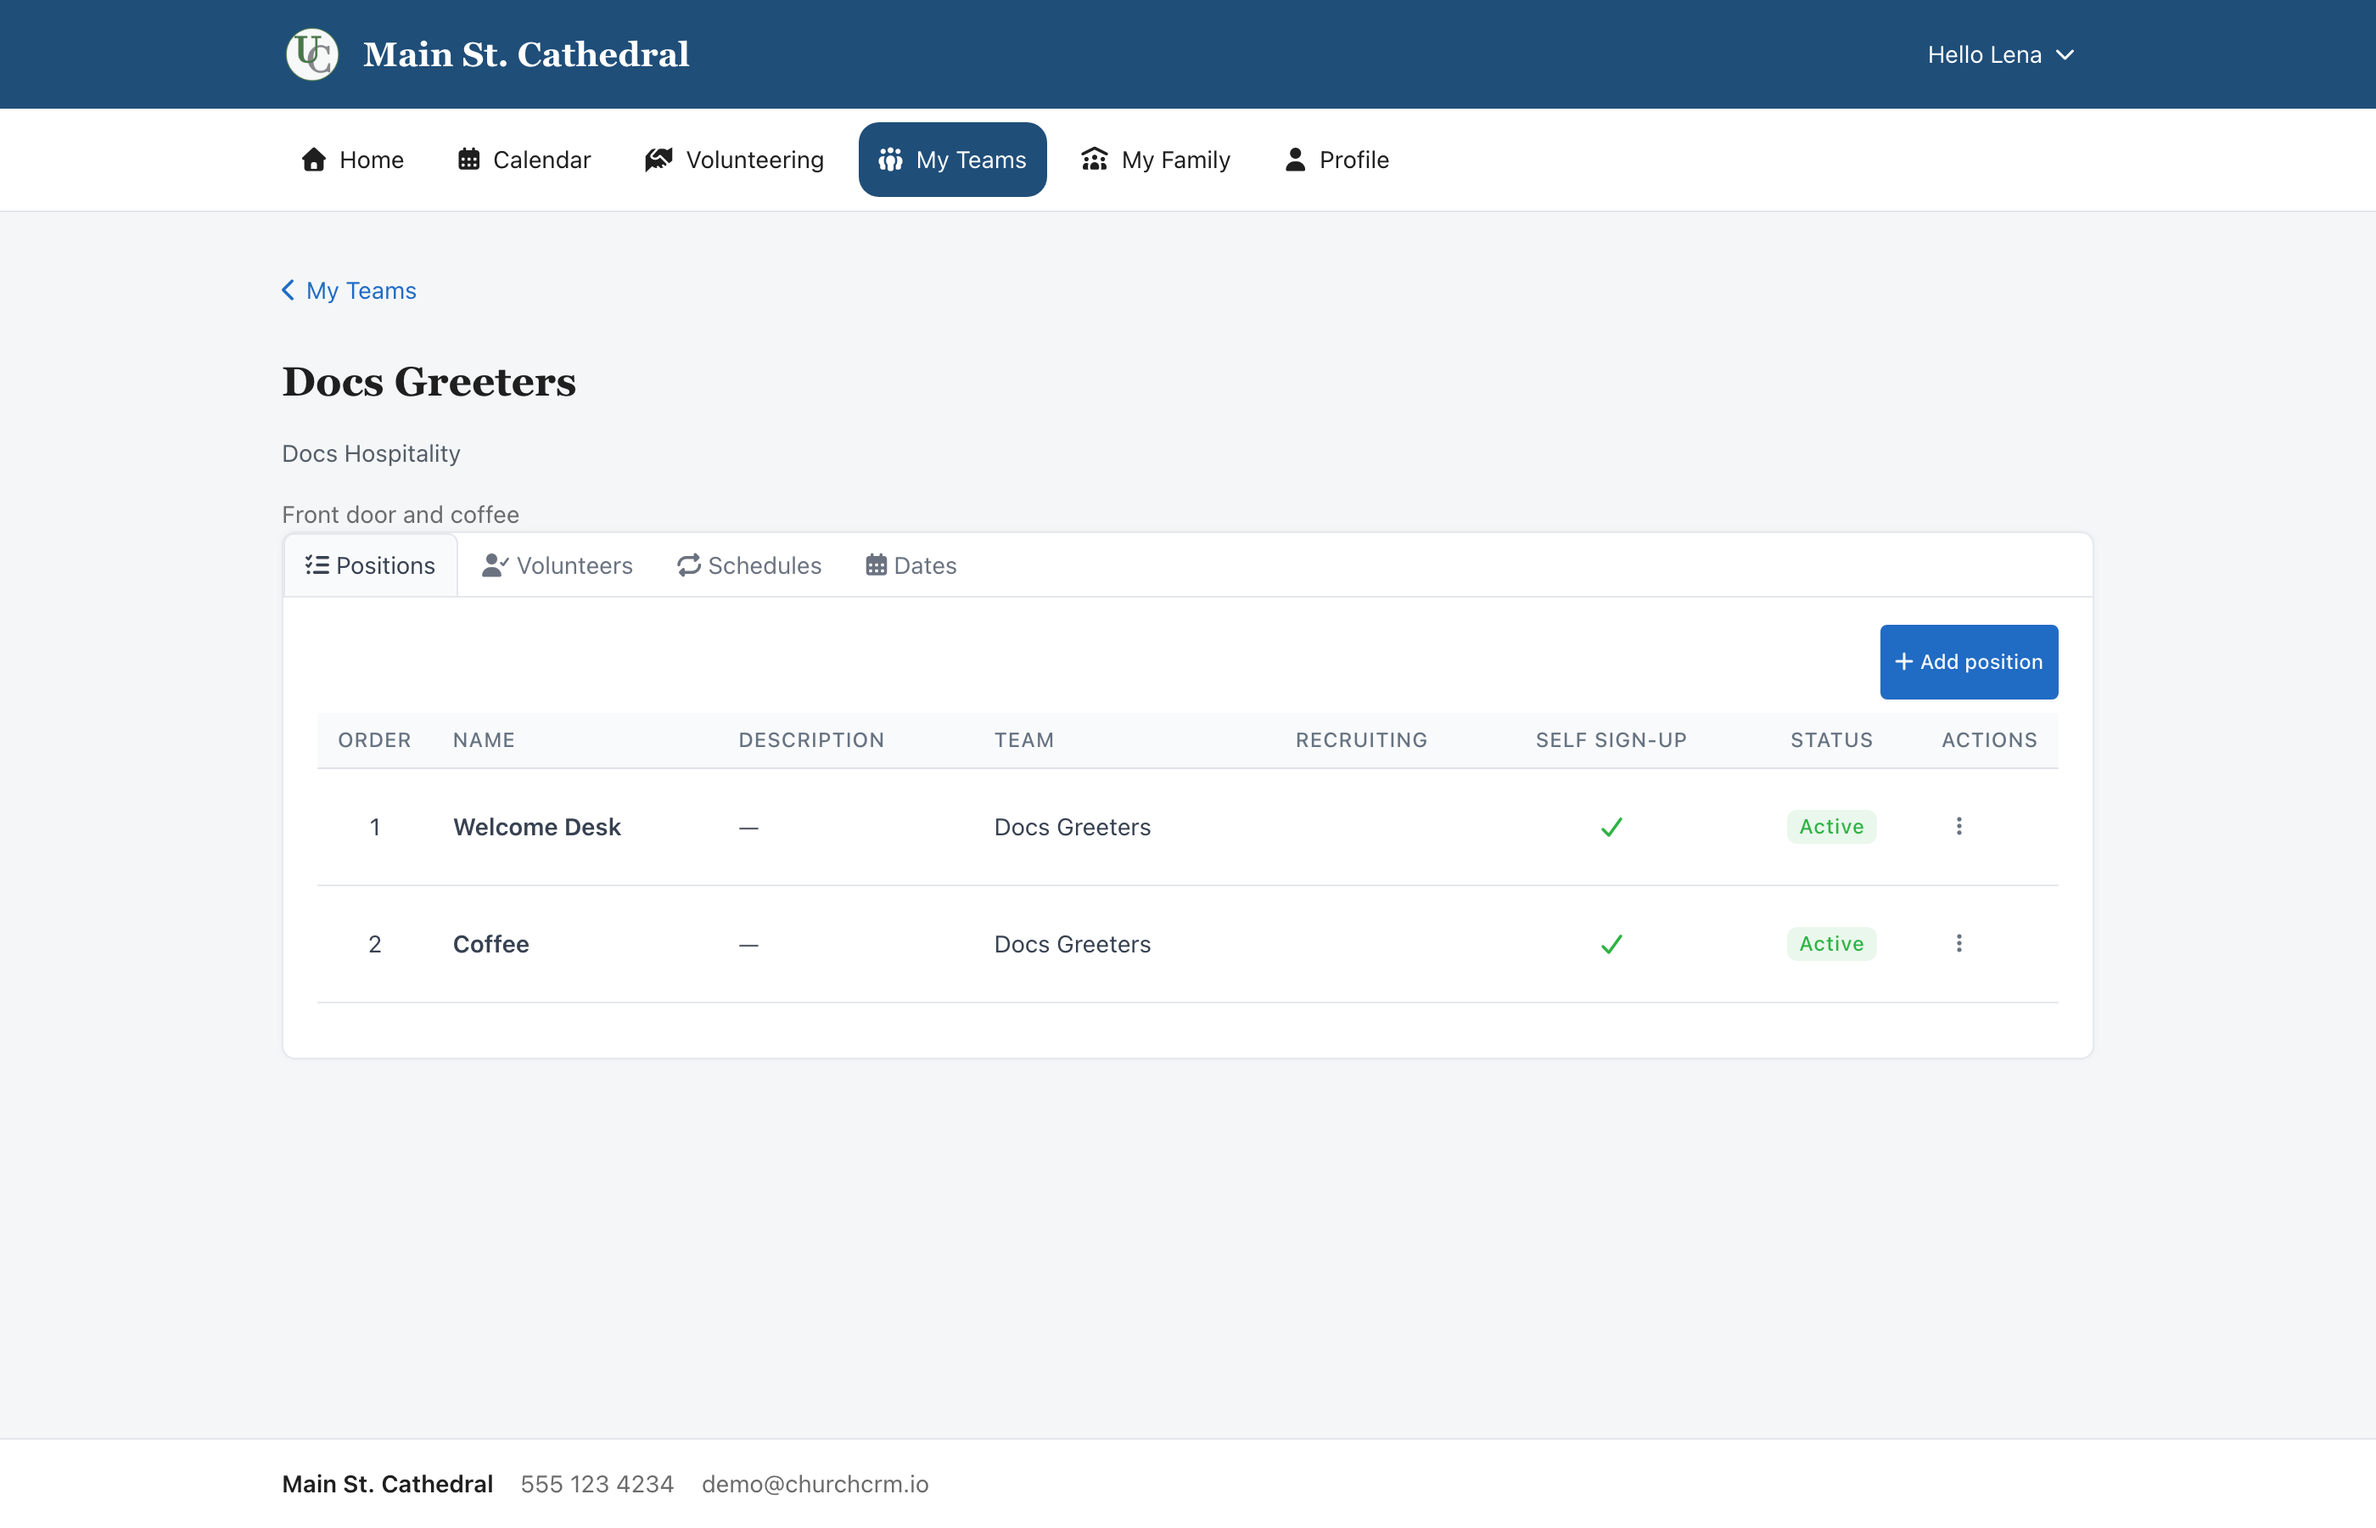
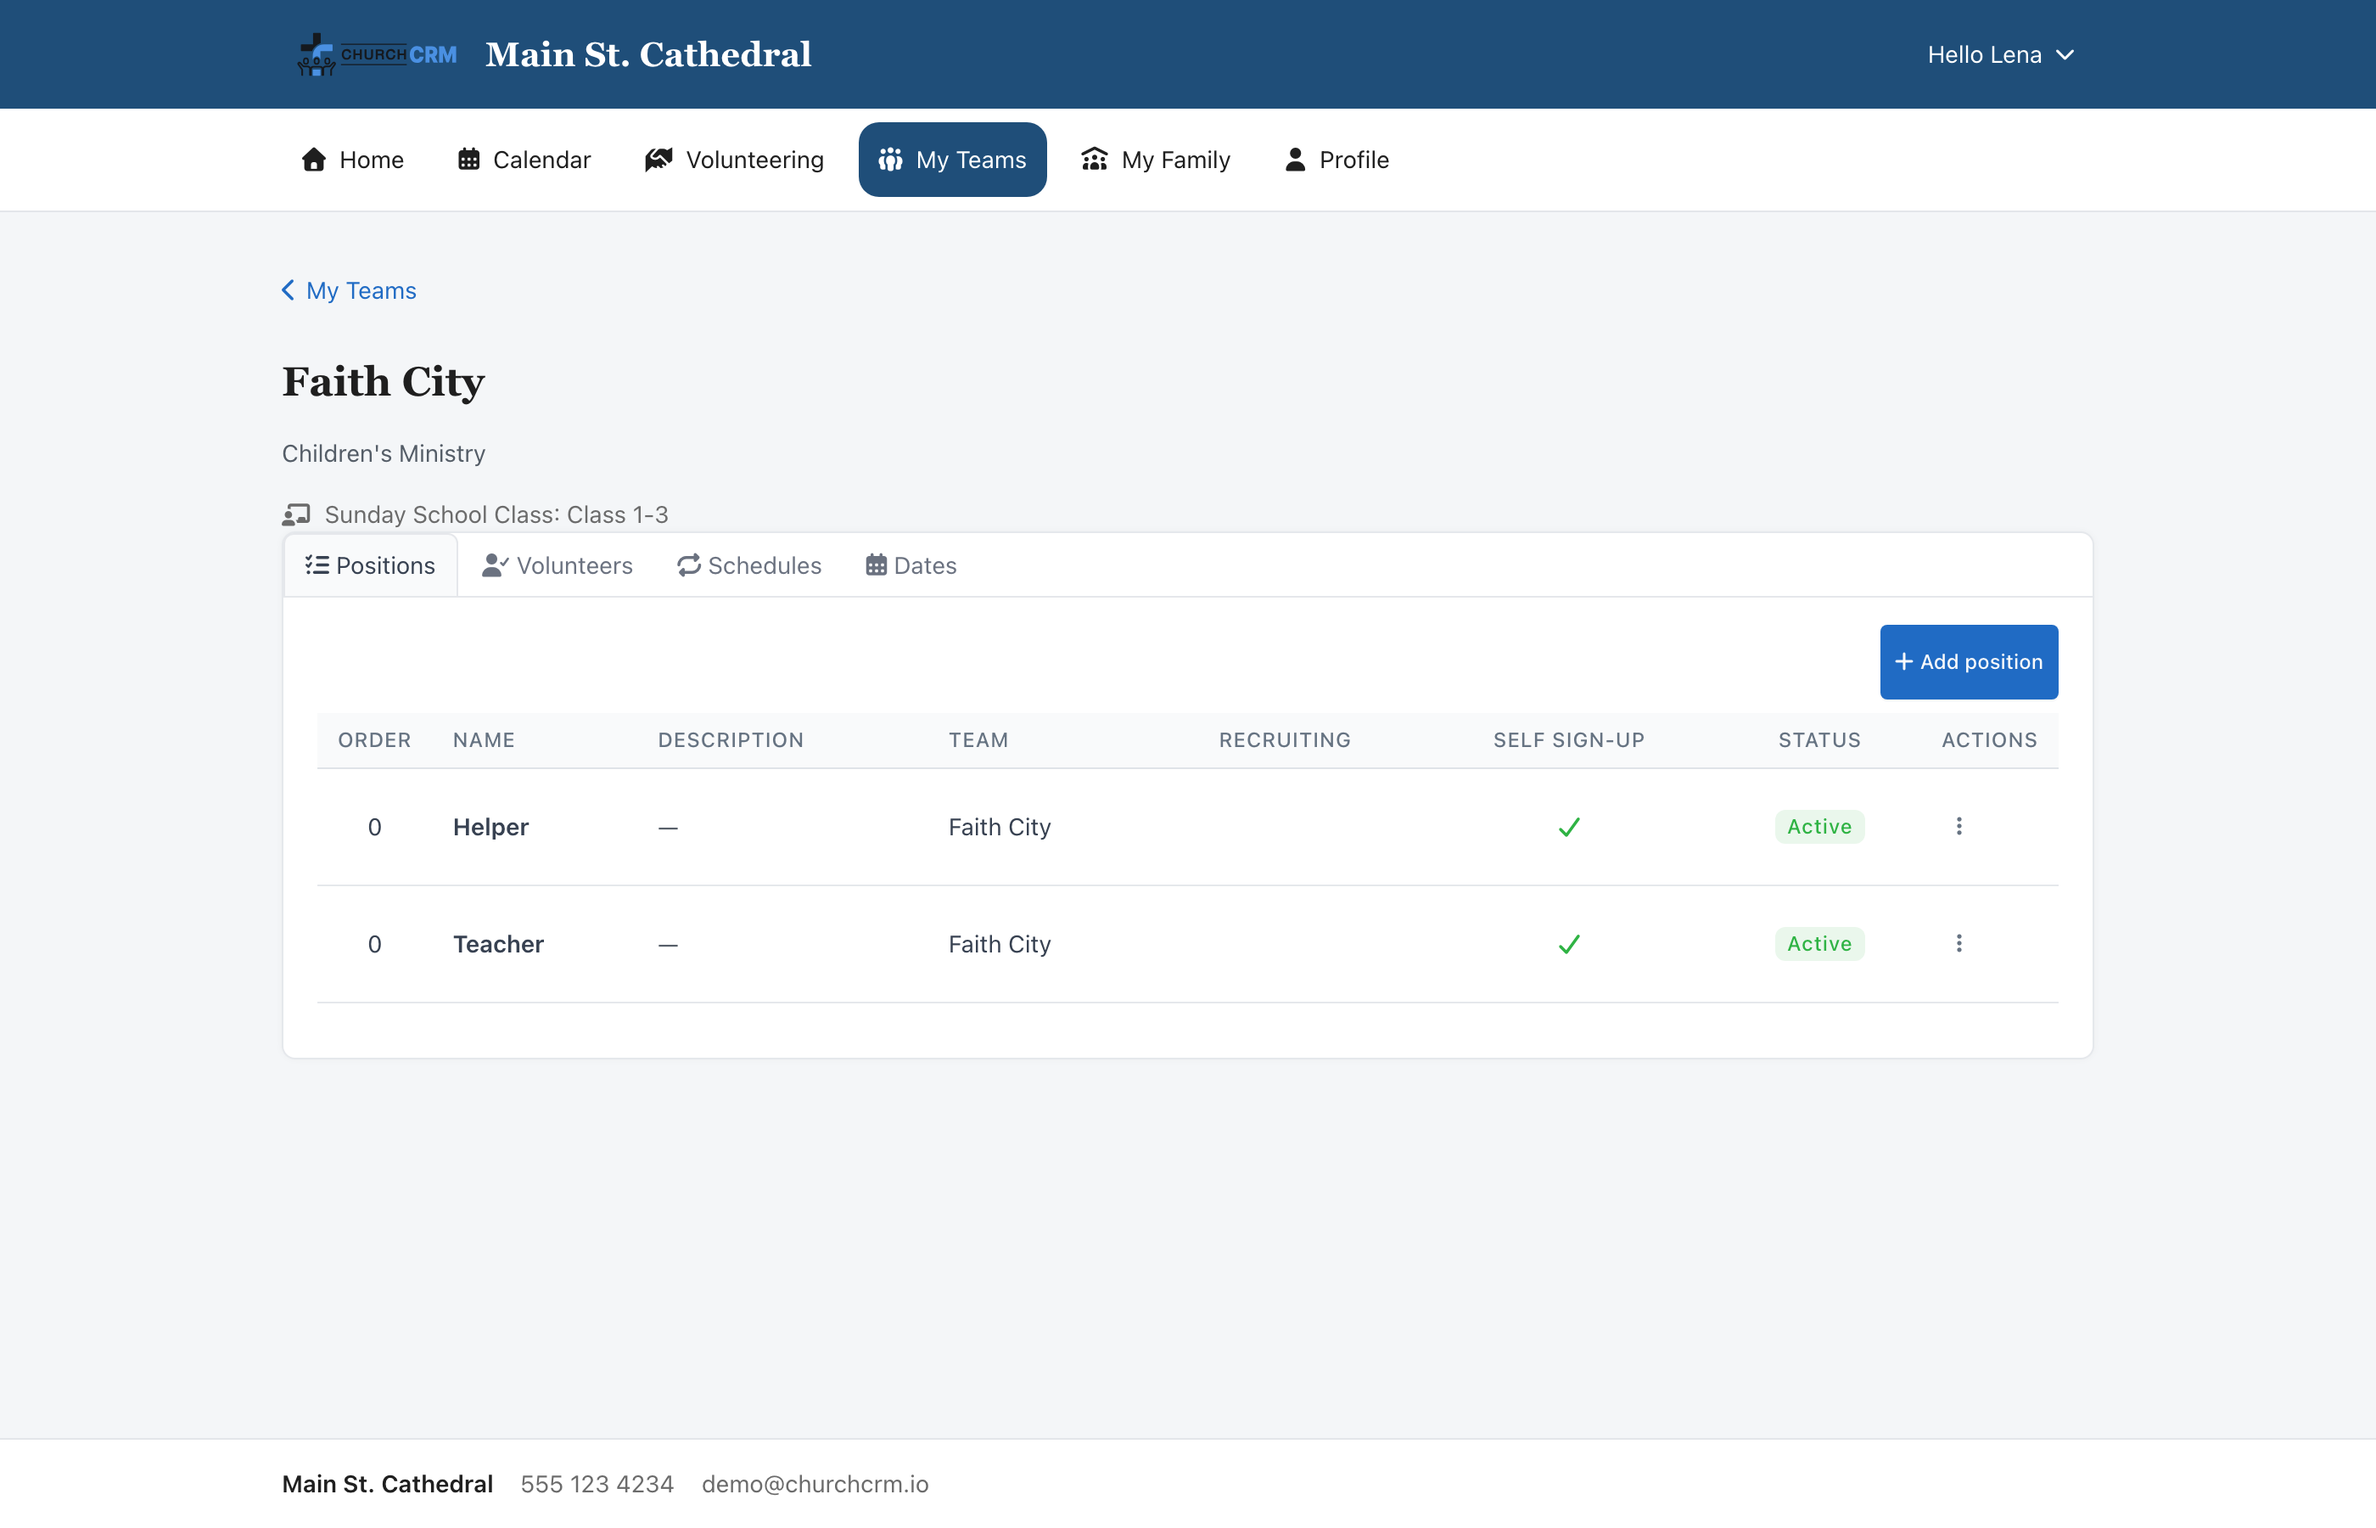
docs(member-portal): calendar switches, schedules that follow events, masquerade exit
- Calendar: the legend's calendars are switches that hide and show their
  events, remembered per browser; the admin Calendars tab says so too.
- My Teams: schedules follow existing calendar events (church events of a
  type, a class's meetings, or the ministry's own events) with volunteer
  time offsets, and a new schedule makes its dates on Save up to the
  church's scheduling horizon, topped up daily. New "Add a schedule"
  section and dialog screenshot; Positions mentions Self-assignable.
- Login as User: the portal's Hello menu shows "Exit to your account" in
  place of "Sign out" during a masquerade (user guide and admin page).
- Retake the calendar, My Teams ("Next on Oct 4", locale dates) and team
  Positions screenshots.

diff --git a/docs/user-guide/member-portal.md b/docs/user-guide/member-portal.md
@@ -30,6 +30,8 @@ On a phone the navigation folds behind the menu button in the header; every page
 
 The **Hello *\<your name\>*** menu in the header holds **Email History** (what the church has emailed you), **Change Password** and **Sign out**. Staff who also have an office login see **Admin Console** there as their way back.
 
+When an administrator opens the portal as you with [Login as User](../administration/users.md), the menu shows **Exit to your account** in place of **Sign out**: it ends the visit and takes the administrator back to their own account, on your user record.
+
 ---
 
 ## Home
@@ -91,11 +93,21 @@ Churches periodically ask households to check what is on file. **Confirm your fa
 
 **Calendar** shows the church calendars an administrator has chosen to share with members. The calendars are listed above the grid with their colours; **Month**, **Week** and **List** views are available, and on a phone the calendar opens in list view. Click an event to see **When**, **Where** and **Details**. The calendar is read-only: nothing here can change an event.
 
-![The portal calendar](/img/user-guide/member-portal-calendar.png)
+![The portal calendar, with the Bible Classes calendar switched off in the legend](/img/user-guide/member-portal-calendar.png)
 
 If your church shares its birthday or anniversary calendar, entries show a first name and last initial (*"Albert C."*) and never an age or a full surname.
 
 The ministry calendar of a team you lead is marked **You lead this**.
+
+### Show or hide a calendar
+
+Each calendar in the legend above the grid is a switch — *"Select a calendar to hide or show its events."*
+
+- Select a calendar to hide its events. Its name is struck through and its colour dot turns hollow.
+- Select it again to show its events.
+- Your browser remembers which calendars you switched off, so the calendar opens the same way next time on that device. Another browser or device starts with every calendar shown.
+
+This helps when the church shares several calendars — for example a calendar of Bible classes next to the main church calendar — and you only want to see some of them. The switches change only what this page shows: they do not change what the church shares or what your [calendar subscription](#subscribe-in-your-own-calendar-app) contains.
 
 ### Subscribe in your own calendar app
 
@@ -152,22 +164,51 @@ With nothing open the page says *"Nothing open right now"* and *"We will email y
 
 ## My Teams
 
-**My Teams** appears only for a member who leads a volunteer team. It lists the teams you look after — *"Open one to set up its positions, say who can serve where, and fill the weeks ahead."* — with each team's ministry, its number of positions and its next scheduled date.
+**My Teams** appears only for a member who leads a volunteer team. It lists the teams you look after — *"Open one to set up its positions, say who can serve where, and fill the weeks ahead."* — with each team's ministry, its number of positions and its next date (*"Next on Oct 4"*). Dates on the portal's volunteer pages are shown in the language and date format your church has set for ChurchCRM.
 
 ![My Teams](/img/user-guide/member-portal-my-teams.png)
 
-**Open this team** shows four tabs for that team and nothing else:
+**Open this team** shows the team's ministry, the Sunday School class it is linked to (if any), and four tabs for that team and nothing else:
 
 | Tab | What you can do |
 |-----|-----------------|
-| **Positions** | **Add position** — a job someone does on this team, such as Espresso or Song Leader — with a name, description, order, whether it is active, and **Recruit Volunteers**, which advertises it on the page where members look for something to help with. |
-| **Volunteers** | A grid of your team's people against its positions. Tick who can serve where; *"Ticks save as you make them."* |
-| **Schedules** | **Add schedule** — the recurring pattern the team serves, either following a calendar event type or repeating weekly on its own — with **Staffing needs** (how many people each position needs each time). **Generate occurrences** fills the weeks ahead, optionally with the default volunteers you name. |
-| **Dates** | Every generated date. Open one to see its staffing, **Assign a volunteer** (whoever served least recently is listed first) and answer any requests to swap. |
+| **Positions** | **Add position** — a job someone does on this team, such as Espresso or Song Leader — with a name, description, order, whether it is active, **Recruit Volunteers**, which advertises it on the page where members look for something to help with, and **Self-assignable**, which lets qualified volunteers sign themselves up for its open dates. Switch **Self-assignable** off for a position only you or a coordinator should assign. |
+| **Volunteers** | A grid of your team's people against its positions. Tick who can serve where; *"Ticks save as you make them."* On a team linked to a Sunday School class, a tick also makes that person a teacher of the class. |
+| **Schedules** | **Add schedule** — which calendar events the team serves, at what times, and how many people each position needs. See [Add a schedule](#add-a-schedule) below. |
+| **Dates** | Every date your team serves, soonest first, with how well each is filled. Filter by **Event**, **From** and **To**. Open a date to see its staffing, **Assign a volunteer** (whoever served least recently is listed first) and answer any requests to swap. **Staff an event** staffs a single upcoming calendar event; to staff a whole series, add a schedule instead. |
 
 ![A team's Positions tab](/img/user-guide/member-portal-team-positions.png)
 
-A team leader works on their own team only. Adding people to the ministry's pool, renaming or deleting teams, and ministry-wide settings such as **Help Wanted** belong to the ministry's coordinator in the office side of ChurchCRM. Opening a team you do not lead shows *"You cannot open this page"*.
+### Add a schedule
+
+A schedule follows events that are already on the church calendar. It never makes dates of its own: each date your team serves is a calendar event, and the event's date and time are the schedule's. If the event moves, your team's date moves with it.
+
+![The Add schedule dialog](/img/user-guide/member-portal-team-schedule.png)
+
+1. On the **Schedules** tab, press **Add schedule** and give the schedule a **Name**.
+2. Under **Where the dates come from**, choose one:
+   - **Church events of a type** — choose the **Event type**, then the **Event** (for example *Worship Hour*). The schedule follows every date of that event.
+   - **A class's meetings** — choose the **Class**. The schedule follows every calendar event whose Linked Group is that class. This is the default for a team linked to a Sunday School class, and it is only offered when the ministry provides Sunday School teachers.
+   - **This ministry's events** — choose the **Event** from the ministry's own events, such as a workday.
+
+   Only events already on the calendar can be chosen; each choice shows how many dates are coming up. A class with no meetings on the calendar cannot be chosen yet. A team leader cannot add events: ask the ministry's coordinator to add them on the ministry's **Calendar** tab.
+3. Under **Volunteer times**, set when your volunteers start and finish, in minutes before or after the event's start and end — for example, start 15 minutes before the event starts. Leave both at 0 to serve exactly when the event happens.
+4. Optionally limit the schedule with **From** and **Until** dates.
+5. Under **Staffing needs**, tick the positions each date needs, with **Min** and **Max** people for each. Optionally choose a **Default volunteer** for a position: they are put on every new date while they stay qualified for it.
+6. Press **Save**.
+
+**Save** creates the schedule and its dates straight away, up to your church's scheduling horizon (eight weeks ahead unless your church has changed it). The **Dates** tab opens with the new dates and a message saying how many were made and how many default volunteers were assigned. ChurchCRM adds the next dates by itself every day as the horizon moves on, so you never have to generate the weeks ahead by hand.
+
+If Save finds no event to staff yet — for example because the schedule's **From** date lies beyond the horizon — the schedule is still saved and an amber message says why.
+
+The action menu of each schedule offers:
+
+- **Edit** — change the schedule. Editing never makes dates. New staffing needs apply to every date that has not been changed on its own; a new default volunteer goes only on dates made from then on.
+- **Generate occurrences** — make any dates still missing up to the horizon (*"Occurrences are created for events in the next 8 weeks (through …)"*), and choose who to **Fill by default with** for each position. Your choice is saved on the schedule. Dates that already exist are left alone.
+- **Deactivate** — pause the schedule: it makes no new dates until you **Reactivate** it.
+- **Delete** — remove the schedule and its dates. A schedule with volunteers assigned on any of its dates cannot be deleted; deactivate it instead.
+
+A team leader works on their own team only. Adding people to the ministry's pool, renaming or deleting teams, creating calendar events, and ministry-wide settings such as **Help Wanted** belong to the ministry's coordinator in the office side of ChurchCRM. Opening a team you do not lead shows *"You cannot open this page"*.
 
 ---
 

diff --git a/docs/administration/member-portal.md b/docs/administration/member-portal.md
@@ -72,6 +72,7 @@ The tab's own rule is the one to remember: **Members see only the calendars swit
 - After an **upgrade**, no calendar is shared. Members see *"No calendar has been shared with members yet."* until you switch one on.
 - On a **new installation**, the church's **Events** calendar is shared from the start.
 - The switches also decide what a member can put in the [calendar subscription](../user-guide/member-portal.md#subscribe-in-your-own-calendar-app) they add to their own calendar app.
+- Members can [hide any shared calendar](../user-guide/member-portal.md#show-or-hide-a-calendar) from the legend of their own **Calendar** page. That changes only what their browser shows, not what you share here.
 
 ---
 
@@ -84,7 +85,7 @@ The portal adds a module; it does not alter the office side of ChurchCRM. A few 
 - **Every ministry has its own calendar**, created with the ministry, renamed when it is renamed and deleted with it. The admin calendar page lists these under **Ministry Calendars**, and the heading that used to say *My Calendars* now reads **Church Calendars**. Ministry calendars are off in the portal until you switch them on.
 - **The old limited-access page is retired.** `/external/limited-access` now redirects to the portal.
 - **Staff and administrators open the portal from their user menu** (**Member Portal**), and get back through the portal's account menu (**Admin Console**).
-- **Login as User** into a self-service account lands you in the portal with the masquerade banner — *"You are logged in as NAME. Actions are recorded as them."* — on every page; the banner's exit control is the way back to that user's record. See [Login as User](./users.md).
+- **Login as User** into a self-service account lands you in the portal with the masquerade banner — *"You are logged in as NAME. Actions are recorded as them."* — on every page. Two controls end the masquerade and return you to your own account, on that user's record: the banner's exit button, and **Exit to your account**, which replaces **Sign out** in the portal's **Hello *\<name\>*** menu while you are logged in as someone else. The menu shows no **Admin Console** entry during a masquerade. See [Login as User](./users.md).
 - **Member photos** in the portal are served through the portal itself, scoped to the member and their family. Nothing for an administrator to configure.
 
 ![The Member Portal entry in the user menu](/img/administration/member-portal-user-menu.png)
